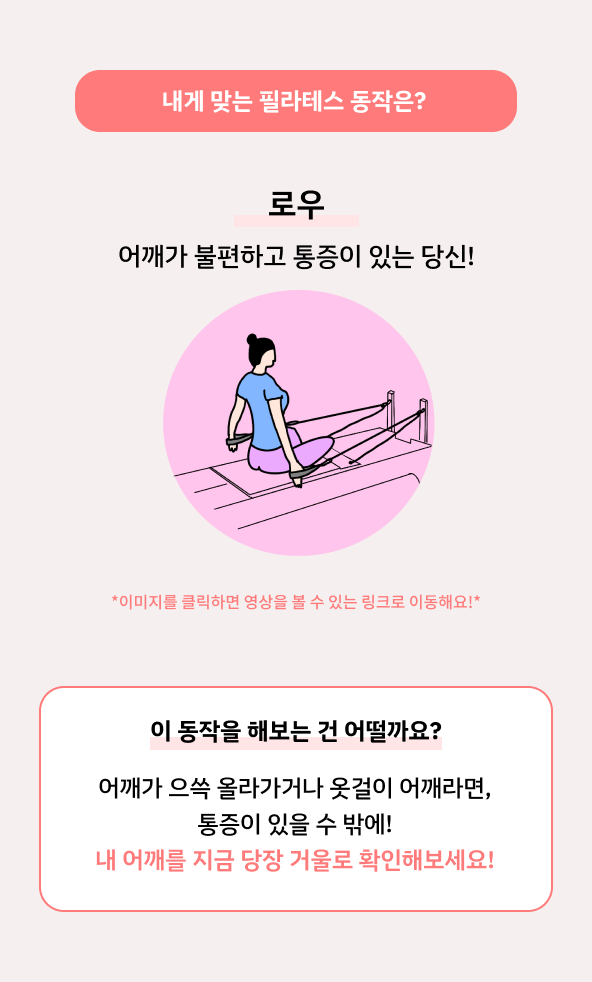
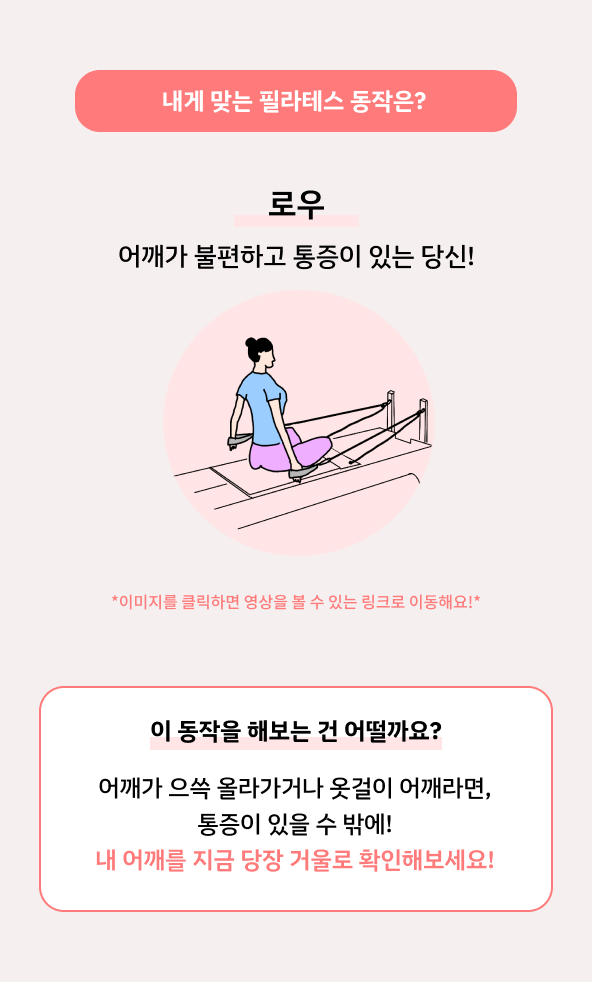
[feat] 카카오톡 공유용 이미지 추가 및 로우동작 이미지 수정

Changed region(s): [[0.2736, 0.2749, 0.7297, 0.5804]]

diff --git a/resultScript.js b/resultScript.js
@@ -29,28 +29,32 @@ const result_level1 = {
     title_img_path: './Images/Result/Level1/lv1_title.png',
     type_img_path: './Images/Result/Level1/lv1_type.png',
     howto_img_path: './Images/Result/Level1/lv1_howto.png',
-    download_img_path: './Images/Result/Level1/lv1_download.png'
+    download_img_path: './Images/Result/Level1/lv1_download.png',
+    kakao_share_img_path: './Images/Result/Level1/lv1_share_kakao.png'
 };
 const result_level2 = {
     charac_img_path: './Images/Result/Level2/lv2_result.png',
     title_img_path: './Images/Result/Level2/lv2_title.png',
     type_img_path: './Images/Result/Level2/lv2_type.png',
     howto_img_path: './Images/Result/Level2/lv2_howto.png',
-    download_img_path: './Images/Result/Level2/lv2_download.png'
+    download_img_path: './Images/Result/Level2/lv2_download.png',
+    kakao_share_img_path: './Images/Result/Level2/lv2_share_kakao.png'
 };
 const result_level3 = {
     charac_img_path: './Images/Result/Level3/lv3_result.png',
     title_img_path: './Images/Result/Level3/lv3_title.png',
     type_img_path: './Images/Result/Level3/lv3_type.png',
     howto_img_path: './Images/Result/Level3/lv3_howto.png',
-    download_img_path: './Images/Result/Level3/lv3_download.png'
+    download_img_path: './Images/Result/Level3/lv3_download.png',
+    kakao_share_img_path: './Images/Result/Level3/lv3_share_kakao.png'
 };
 const result_level4 = {
     charac_img_path: './Images/Result/Level4/lv4_result.png',
     title_img_path: './Images/Result/Level4/lv4_title.png',
     type_img_path: './Images/Result/Level4/lv4_type.png',
     howto_img_path: './Images/Result/Level4/lv4_howto.png',
-    download_img_path: './Images/Result/Level4/lv4_download.png'
+    download_img_path: './Images/Result/Level4/lv4_download.png',
+    kakao_share_img_path: './Images/Result/Level4/lv4_share_kakao.png'
 };
 
 // 공유하기 버튼
@@ -190,7 +194,7 @@ function kakaoShare() {
       content: {
         title: `${resultContent(point)}`,
         description: 'KIRA PILATES 필라테스 테스트 결과입니다.',
-        imageUrl: './Images/Question/q2.png',
+        imageUrl: `${kakaoShareImageUrl(point)}`,
         link: {
           mobileWebUrl: 'https://gom1n.github.io/KIRAPILATES/',
           webUrl: 'https://gom1n.github.io/KIRAPILATES/',
@@ -209,6 +213,7 @@ function kakaoShare() {
       installTalk: true,
     })
 }
+// 카카오 공유 시 문구 설정
 function resultContent(point) {
     if(point == 5) {
         result = "풋워크 동작을 추천할게요!"
@@ -218,6 +223,20 @@ function resultContent(point) {
         result = "로우 동작을 추천할게요!"
     } else if(point == 8) {
         result = "티저 동작을 추천할게요!"
+    }
+
+    return result
+}
+// 카카오 공유 시 이미지 설정
+function kakaoShareImageUrl(point) {
+    if(point == 5) {
+        result = result_level1.kakao_share_img_path
+    } else if(point == 7) {
+        result = result_level2.kakao_share_img_path
+    } else if(point == 6) {
+        result = result_level3.kakao_share_img_path
+    } else if(point == 8) {
+        result = result_leve41.kakao_share_img_path
     }
 
     return result
